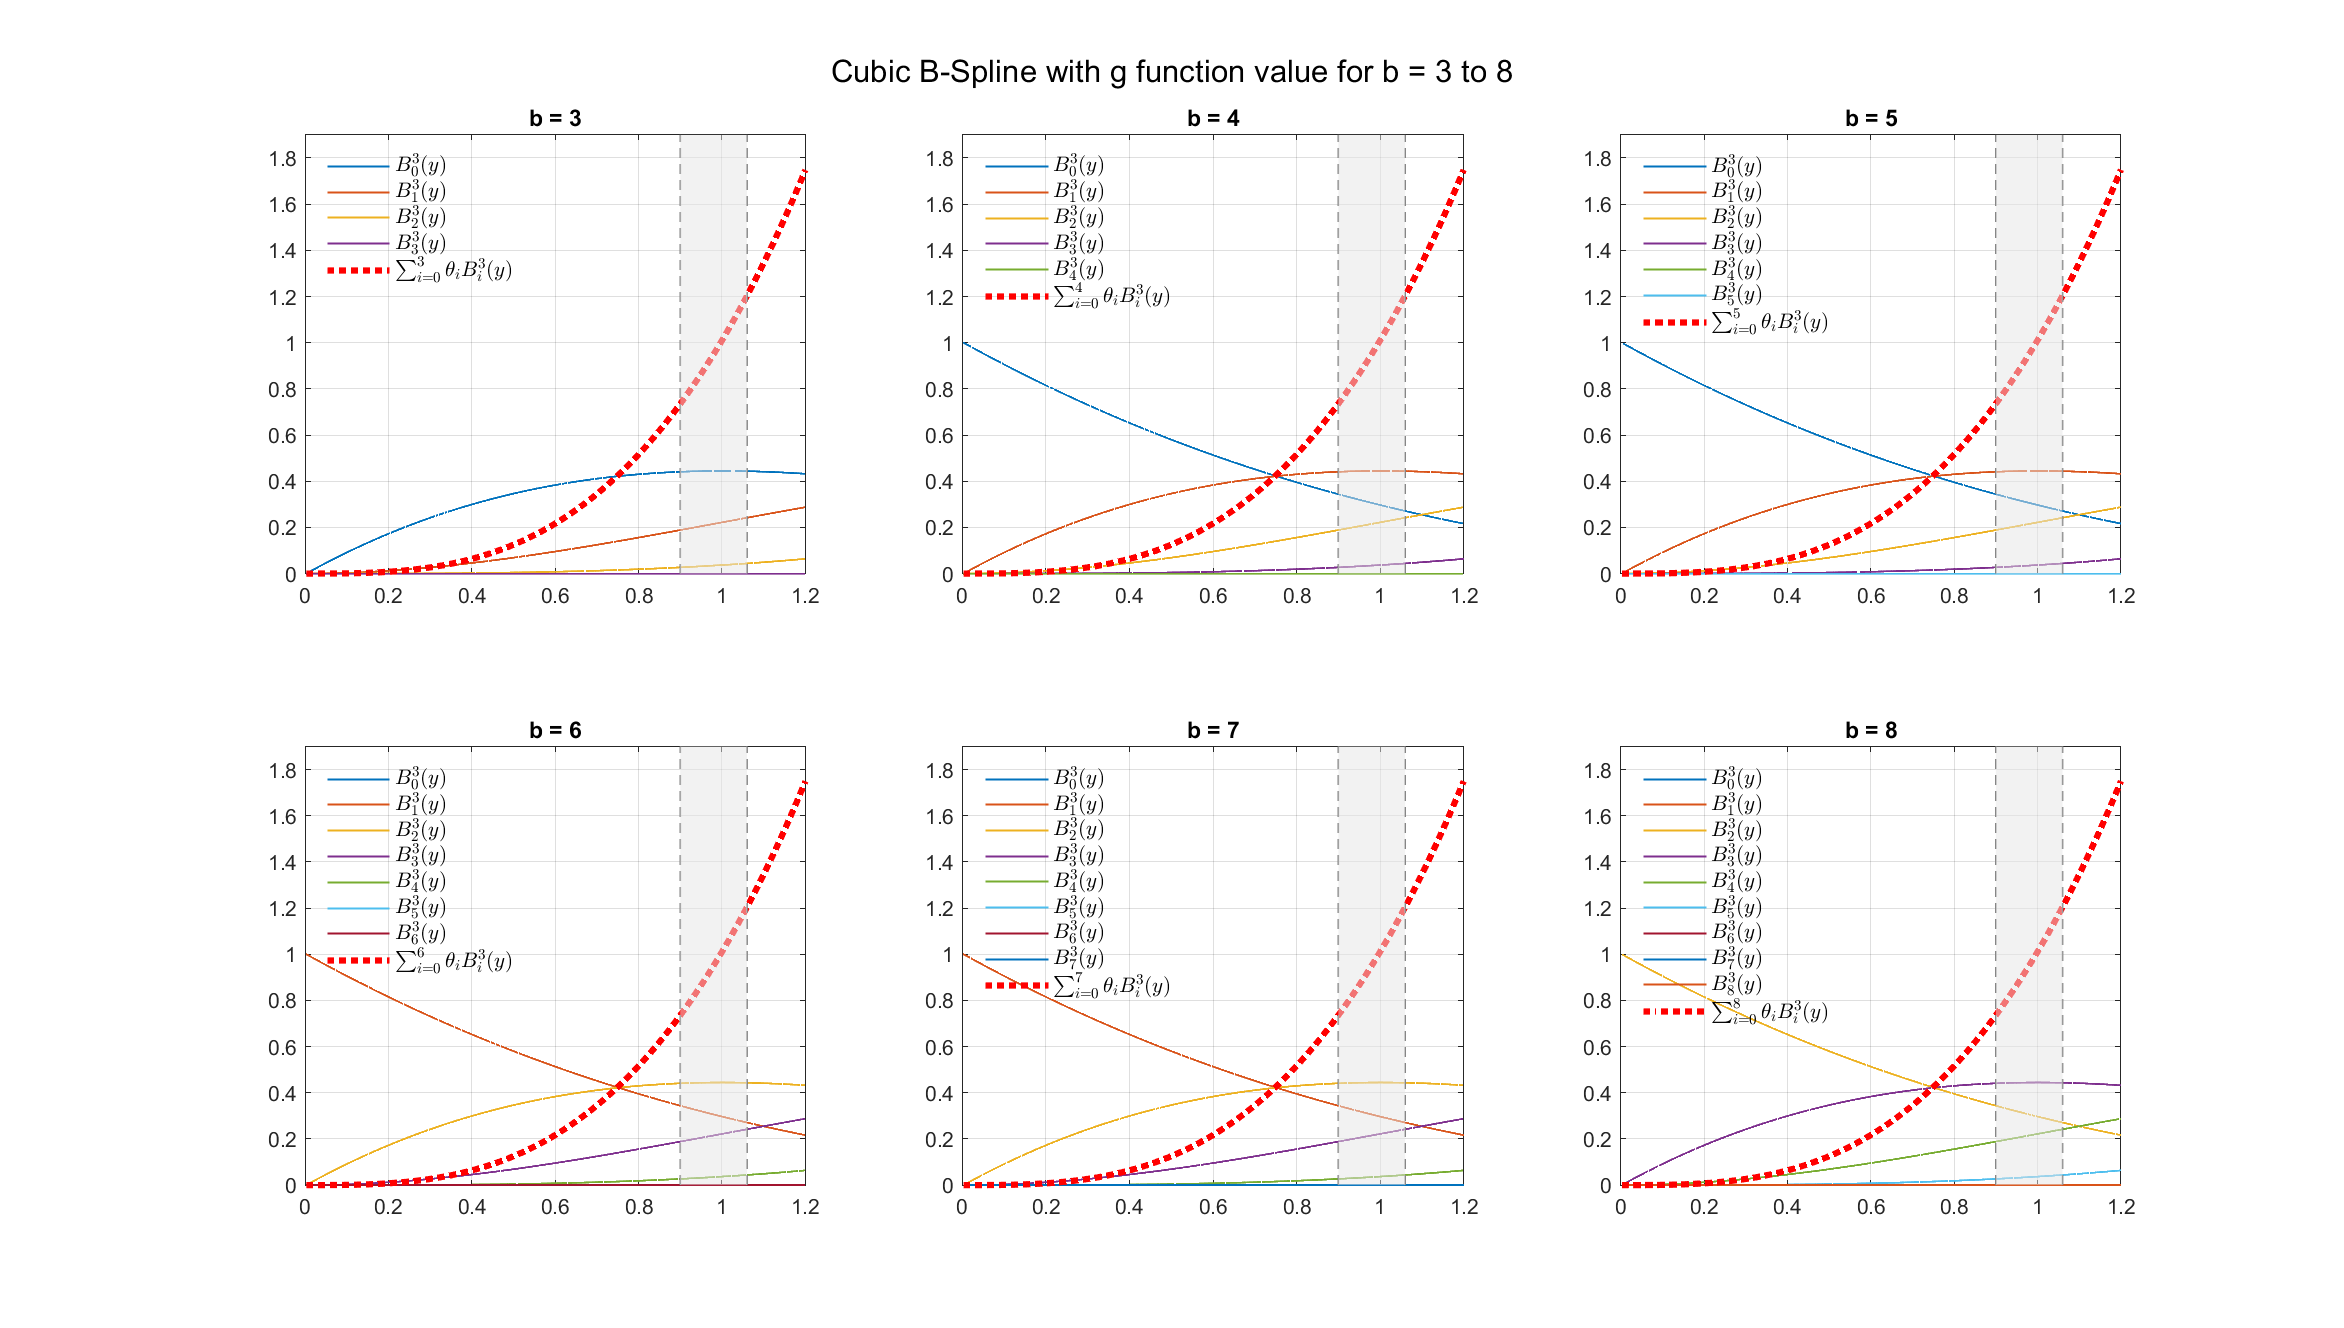
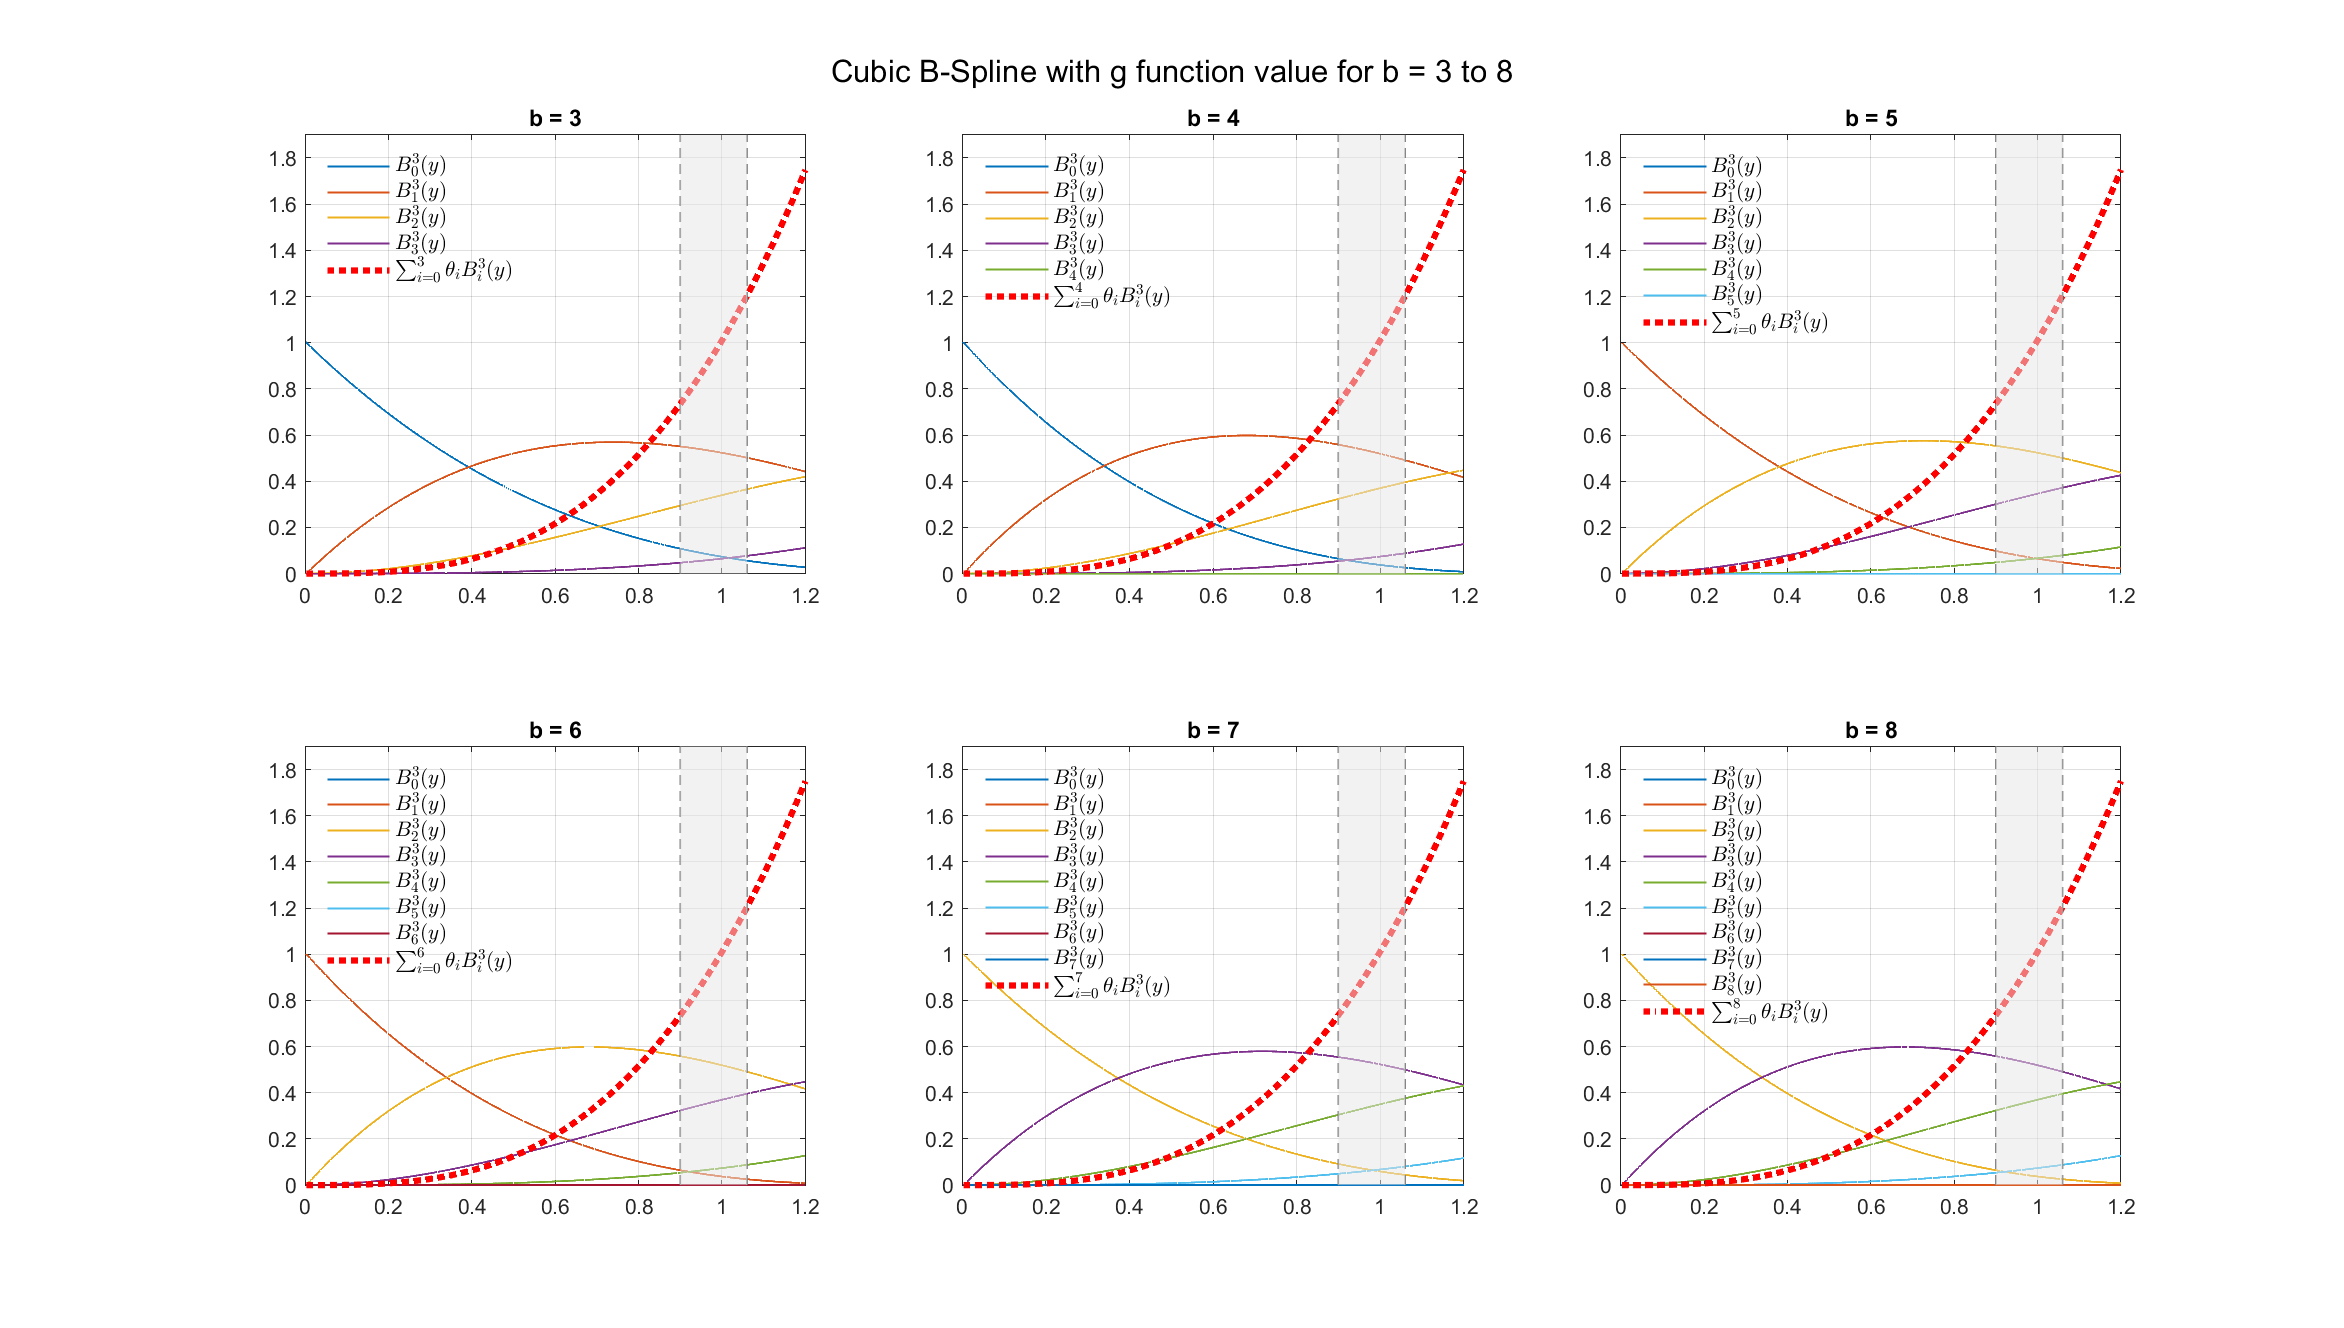
Correct the knots on the Right side of the inner point and re-estimate theta (ceil)

diff --git a/03  條件密度積分方法（CDI method） - 2021 JBF/Bspline_basis_function_value.m b/03  條件密度積分方法（CDI method） - 2021 JBF/Bspline_basis_function_value.m
@@ -13,7 +13,7 @@ function B_value = Bspline_basis_function_value(n, b, min_knot, max_knot, functi
     knots(1:(middle_index - 1)) = knots(1);
 
     % Set the open uniform (right side)
-    knots((end - middle_index + 1):end) = knots(end);
+    knots((middle_index + 1):end) = knots(end);
 
     i = function_index;
     % B_value = zeros(size(y));

diff --git a/03  條件密度積分方法（CDI method） - 2021 JBF/Procedure__Plot.m b/03  條件密度積分方法（CDI method） - 2021 JBF/Procedure__Plot.m
@@ -38,7 +38,7 @@ end
 
 % Estimated theta
 Path_Data_03 = fullfile(Path_MainFolder, 'Code', '03  輸出資料 - 2021 JBF');
-mat_files = dir(fullfile(Path_Data_03, 'theta_hat (b=*.mat'));
+mat_files = dir(fullfile(Path_Data_03, 'ceil_theta_hat (b=*.mat'));
 
 for k = 1:length(mat_files)
     file_path = fullfile(Path_Data_03, mat_files(k).name);

diff --git a/03  條件密度積分方法（CDI method） - 2021 JBF/Procedure__Theta_Estimation_Brief.m b/03  條件密度積分方法（CDI method） - 2021 JBF/Procedure__Theta_Estimation_Brief.m
@@ -60,6 +60,6 @@ for b = 3:8
     disp(['b = ' num2str(b) '  Estimated parameters:']);
     disp(theta_hat);
     
-    save_filename = ['theta_hat (b=' num2str(b) ').mat'];
+    save_filename = ['ceil_theta_hat (b=' num2str(b) ').mat'];
     save(fullfile(Path_Output, save_filename), 'theta_hat');
 end
